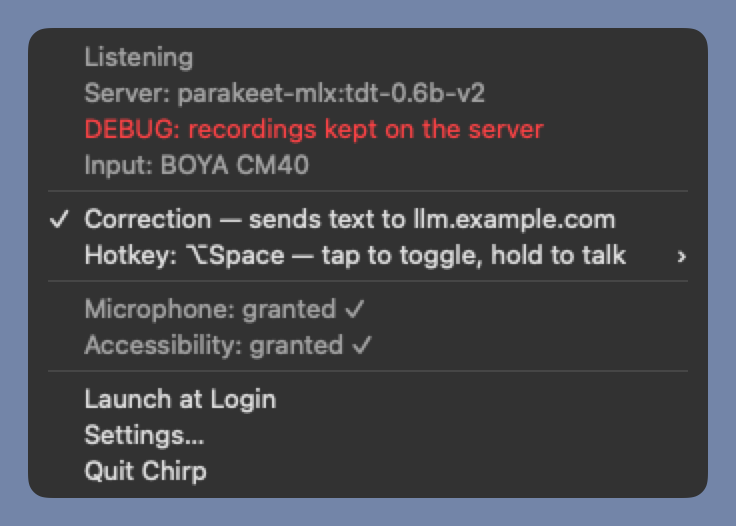
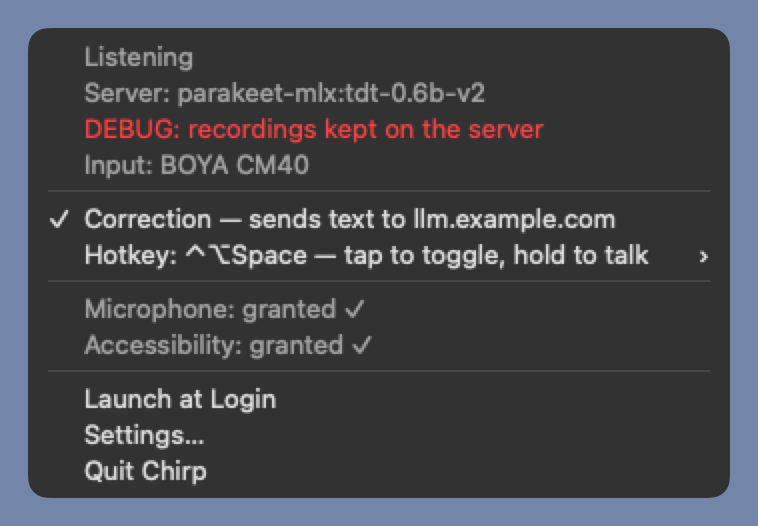
fix(mac): default hotkey ⌃⌥Space; drop ⌥-only presets that macOS 15+ never fires
⌥Space registered without error but the key passed through (typing a space). Carbon hot keys with only
⌥/⌥⇧ modifiers no longer fire since macOS 15, and ⌃Space alone is Raycast's default. Presets are now
⌃⌥Space, ⌃⇧Space and ⌃⌥⌘Space; retired ids fall back to the default.

diff --git a/mac/Sources/ChirpCore/HotKey.swift b/mac/Sources/ChirpCore/HotKey.swift
@@ -8,15 +8,18 @@ public struct KeyCombo: Sendable, Equatable, Identifiable {
     public let keyCode: UInt32
     public let modifiers: UInt32
 
-    public static let optionSpace = KeyCombo(id: "option-space", title: "⌥Space", keyCode: UInt32(kVK_Space), modifiers: UInt32(optionKey))
     public static let controlOptionSpace = KeyCombo(id: "control-option-space", title: "⌃⌥Space", keyCode: UInt32(kVK_Space), modifiers: UInt32(controlKey | optionKey))
-    public static let optionShiftSpace = KeyCombo(id: "option-shift-space", title: "⌥⇧Space", keyCode: UInt32(kVK_Space), modifiers: UInt32(optionKey | shiftKey))
+    public static let controlShiftSpace = KeyCombo(id: "control-shift-space", title: "⌃⇧Space", keyCode: UInt32(kVK_Space), modifiers: UInt32(controlKey | shiftKey))
+    public static let controlOptionCommandSpace = KeyCombo(id: "control-option-command-space", title: "⌃⌥⌘Space", keyCode: UInt32(kVK_Space), modifiers: UInt32(controlKey | optionKey | cmdKey))
     public static let escape = KeyCombo(id: "escape", title: "Esc", keyCode: UInt32(kVK_Escape), modifiers: 0)
 
-    /// Selectable dictation hotkeys; the first is the default.
-    public static let presets: [KeyCombo] = [.optionSpace, .controlOptionSpace, .optionShiftSpace]
+    /// Selectable dictation hotkeys; the first is the default. Each includes ⌃ or ⌘: since macOS 15, Carbon hot keys
+    /// whose only modifiers are ⌥ (or ⌥⇧) register without error but never fire. ⌃Space alone is Raycast's default
+    /// and the system input-source switcher, so it is not offered.
+    public static let presets: [KeyCombo] = [.controlOptionSpace, .controlShiftSpace, .controlOptionCommandSpace]
 
-    public static func preset(id: String?) -> KeyCombo { presets.first { $0.id == id } ?? .optionSpace }
+    /// Unknown ids, including the retired "option-space" and "option-shift-space", fall back to the default.
+    public static func preset(id: String?) -> KeyCombo { presets.first { $0.id == id } ?? .controlOptionSpace }
 }
 
 /// Registers Carbon hot keys, which deliver press *and* release without Input Monitoring permission.

diff --git a/mac/Tests/ChirpCoreTests/HotKeyTests.swift b/mac/Tests/ChirpCoreTests/HotKeyTests.swift
@@ -4,14 +4,23 @@ import Testing
 
 @MainActor
 @Suite struct HotKeyTests {
-    @Test func presetsAreUniqueAndDefaultIsOptionSpace() {
+    @Test func presetsAreUniqueAndDefaultIsControlOptionSpace() {
         let ids = KeyCombo.presets.map(\.id)
         #expect(Set(ids).count == ids.count)
-        #expect(KeyCombo.presets.first == .optionSpace)
-        #expect(KeyCombo.preset(id: "control-option-space") == .controlOptionSpace)
-        #expect(KeyCombo.preset(id: "nonsense") == .optionSpace)
-        #expect(KeyCombo.preset(id: nil) == .optionSpace)
-        #expect(KeyCombo.optionSpace.modifiers == UInt32(optionKey))
+        #expect(KeyCombo.presets.first == .controlOptionSpace)
+        #expect(KeyCombo.preset(id: "control-shift-space") == .controlShiftSpace)
+        #expect(KeyCombo.preset(id: "nonsense") == .controlOptionSpace)
+        #expect(KeyCombo.preset(id: nil) == .controlOptionSpace)
+    }
+
+    /// macOS 15+ silently ignores Carbon hot keys with only ⌥/⇧ modifiers, and ⌃Space alone belongs to Raycast/input sources.
+    @Test func everyPresetCanFireOnCurrentMacOS() {
+        for combo in KeyCombo.presets {
+            #expect(combo.modifiers & UInt32(controlKey | cmdKey) != 0, "\(combo.title) needs ⌃ or ⌘")
+            #expect(combo.modifiers != UInt32(controlKey), "\(combo.title) is ⌃Space alone")
+        }
+        #expect(KeyCombo.preset(id: "option-space") == .controlOptionSpace)
+        #expect(KeyCombo.preset(id: "option-shift-space") == .controlOptionSpace)
     }
 
     @Test func dispatchRoutesPressAndRelease() {

diff --git a/mac/Sources/ChirpMac/Settings.swift b/mac/Sources/ChirpMac/Settings.swift
@@ -9,7 +9,7 @@ enum Settings {
         get { defaults.string(forKey: "serverURL") ?? ServerConfig.defaultURL.absoluteString }
         set { defaults.set(newValue, forKey: "serverURL") }
     }
-    /// One of `KeyCombo.presets` (⌥Space by default).
+    /// One of `KeyCombo.presets` (⌃⌥Space by default).
     static var hotkey: KeyCombo {
         get { KeyCombo.preset(id: defaults.string(forKey: "hotkey")) }
         set { defaults.set(newValue.id, forKey: "hotkey") }

diff --git a/mac/Sources/ChirpUI/SettingsForm.swift b/mac/Sources/ChirpUI/SettingsForm.swift
@@ -3,7 +3,7 @@ import ChirpCore
 
 /// What the Settings window shows. The window controller reads it from the system; the snapshots pass fixed values.
 public struct SettingsState: Sendable {
-    public var hotkey: KeyCombo = .optionSpace
+    public var hotkey: KeyCombo = .controlOptionSpace
     public var serverURL = ServerConfig.defaultURL.absoluteString
     public var tokenPresent = true
     public var launch: LaunchState = .off

diff --git a/mac/Sources/ChirpUI/MenuContent.swift b/mac/Sources/ChirpUI/MenuContent.swift
@@ -44,7 +44,7 @@ public struct MenuInputs: Sendable {
     public var debugRetention = false
     public var inputName: String?
     public var correctionOn = false
-    public var hotkey: KeyCombo = .optionSpace
+    public var hotkey: KeyCombo = .controlOptionSpace
     public var micGranted = true
     public var accessibilityGranted = true
     public var launch: LaunchState = .off

diff --git a/mac/README.md b/mac/README.md
@@ -40,7 +40,7 @@ The Mac mini has no built-in microphone. Chirp follows the system default input 
 
 ## Using it
 
-- **Hotkey:** ⌥Space by default; pick ⌃⌥Space or ⌥⇧Space in the menu or Settings. A press shorter than 300 ms toggles (tap to start, tap to stop). A longer press is push-to-talk: hold, speak, release.
+- **Hotkey:** ⌃⌥Space by default; pick ⌃⇧Space or ⌃⌥⌘Space in the menu or Settings. ⌥-only shortcuts such as ⌥Space are not offered: since macOS 15 they register but never fire. ⌃Space alone is Raycast's default and the input-source switcher. A press shorter than 300 ms toggles (tap to start, tap to stop). A longer press is push-to-talk: hold, speak, release.
 - **Esc** cancels: the server discards the audio and nothing is inserted. Esc is only captured while a dictation is active.
 - The **HUD** appears at the top centre of the screen under the mouse and never takes focus. Stable text is shown normally and the still-changing tail dimmed. Status: Connecting, Listening, Finalizing, Inserted, Copied — press ⌘V.
 - **Silence guard:** if the input is digitally silent for 1.5 s you get "No microphone signal" and the session is cancelled.

diff --git a/docs/TESTING.md b/docs/TESTING.md
@@ -46,7 +46,7 @@ Each step needs the operator's hands or approval. Do them in order.
 4. **Build and install:** `./scripts/bundle.sh && ./scripts/install.sh && open ~/Applications/Chirp.app`.
 5. **Grant permissions.** On first launch the app asks for **Microphone** and **Accessibility**; grant both in System Settings → Privacy & Security. Input Monitoring is not needed.
 6. **Dictate:**
-   - Focus any text field, press ⌥Space, speak, then press ⌥Space again. Holding ⌥Space is push-to-talk; Esc cancels.
+   - Focus any text field, press ⌃⌥Space, speak, then press ⌃⌥Space again. Holding ⌃⌥Space is push-to-talk; Esc cancels.
    - Check that live text appears in the HUD and the final text lands in the field.
    - Try TextEdit, Safari, Slack or VS Code (these paste), and Terminal.
 
